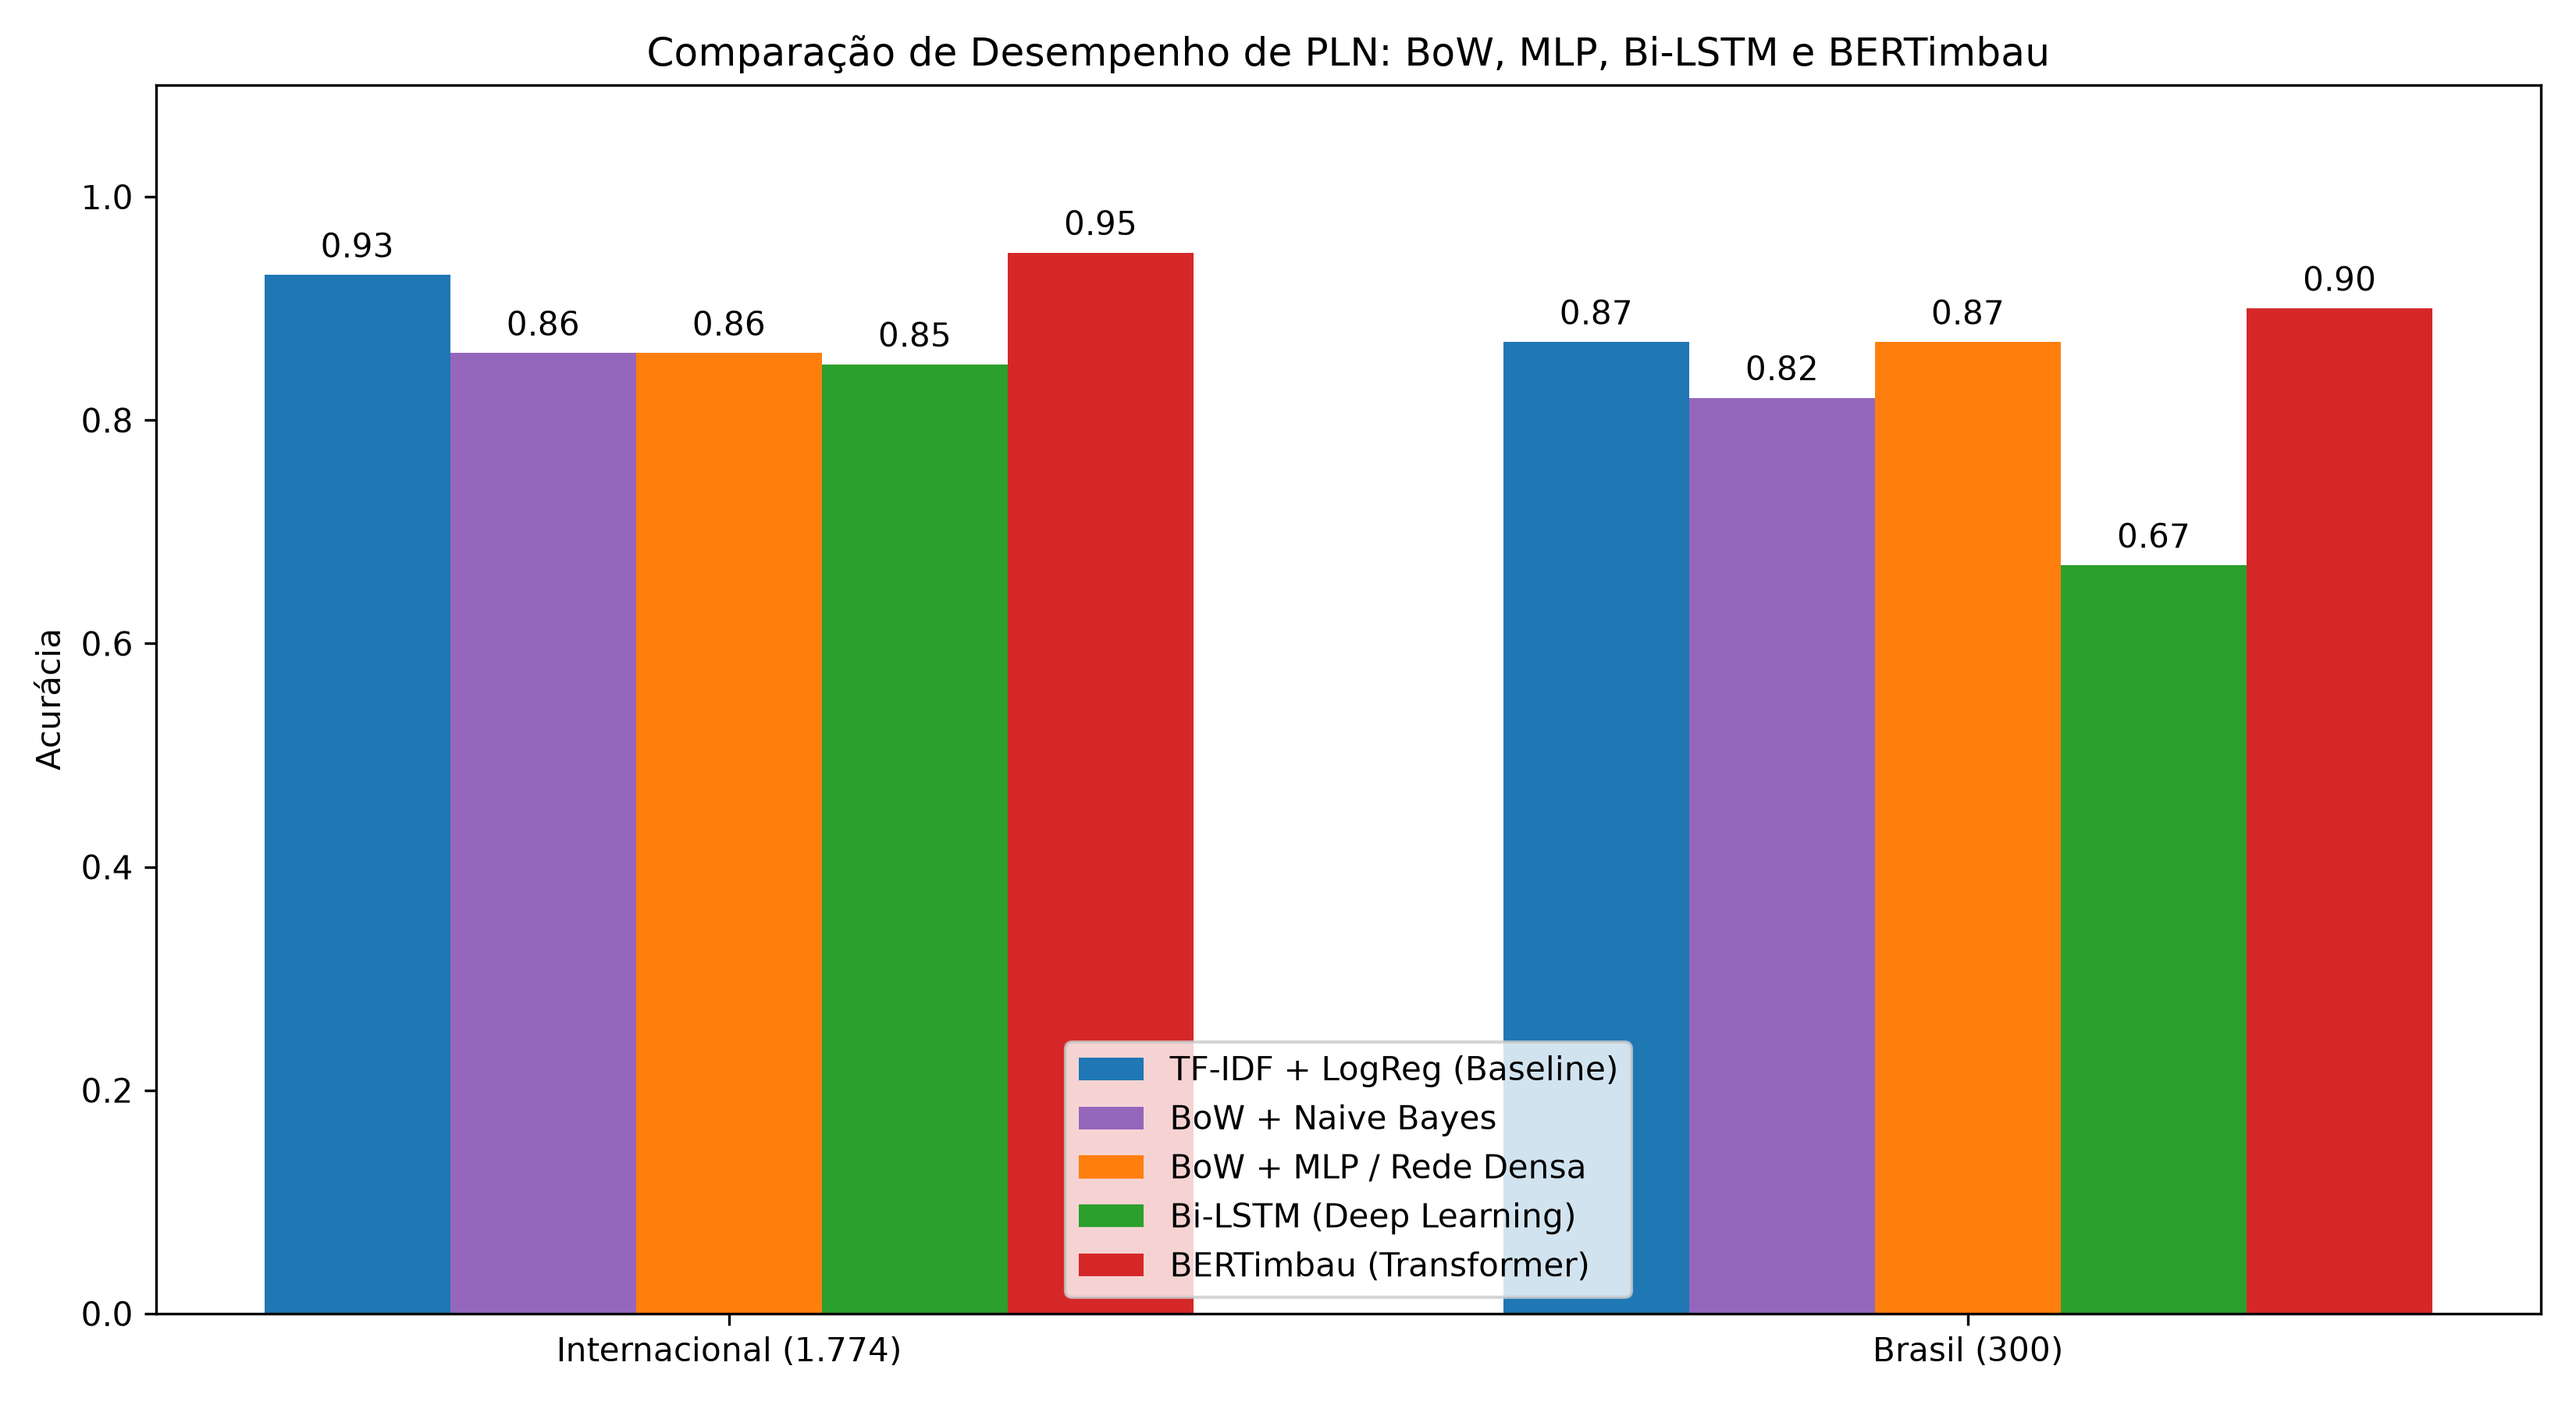
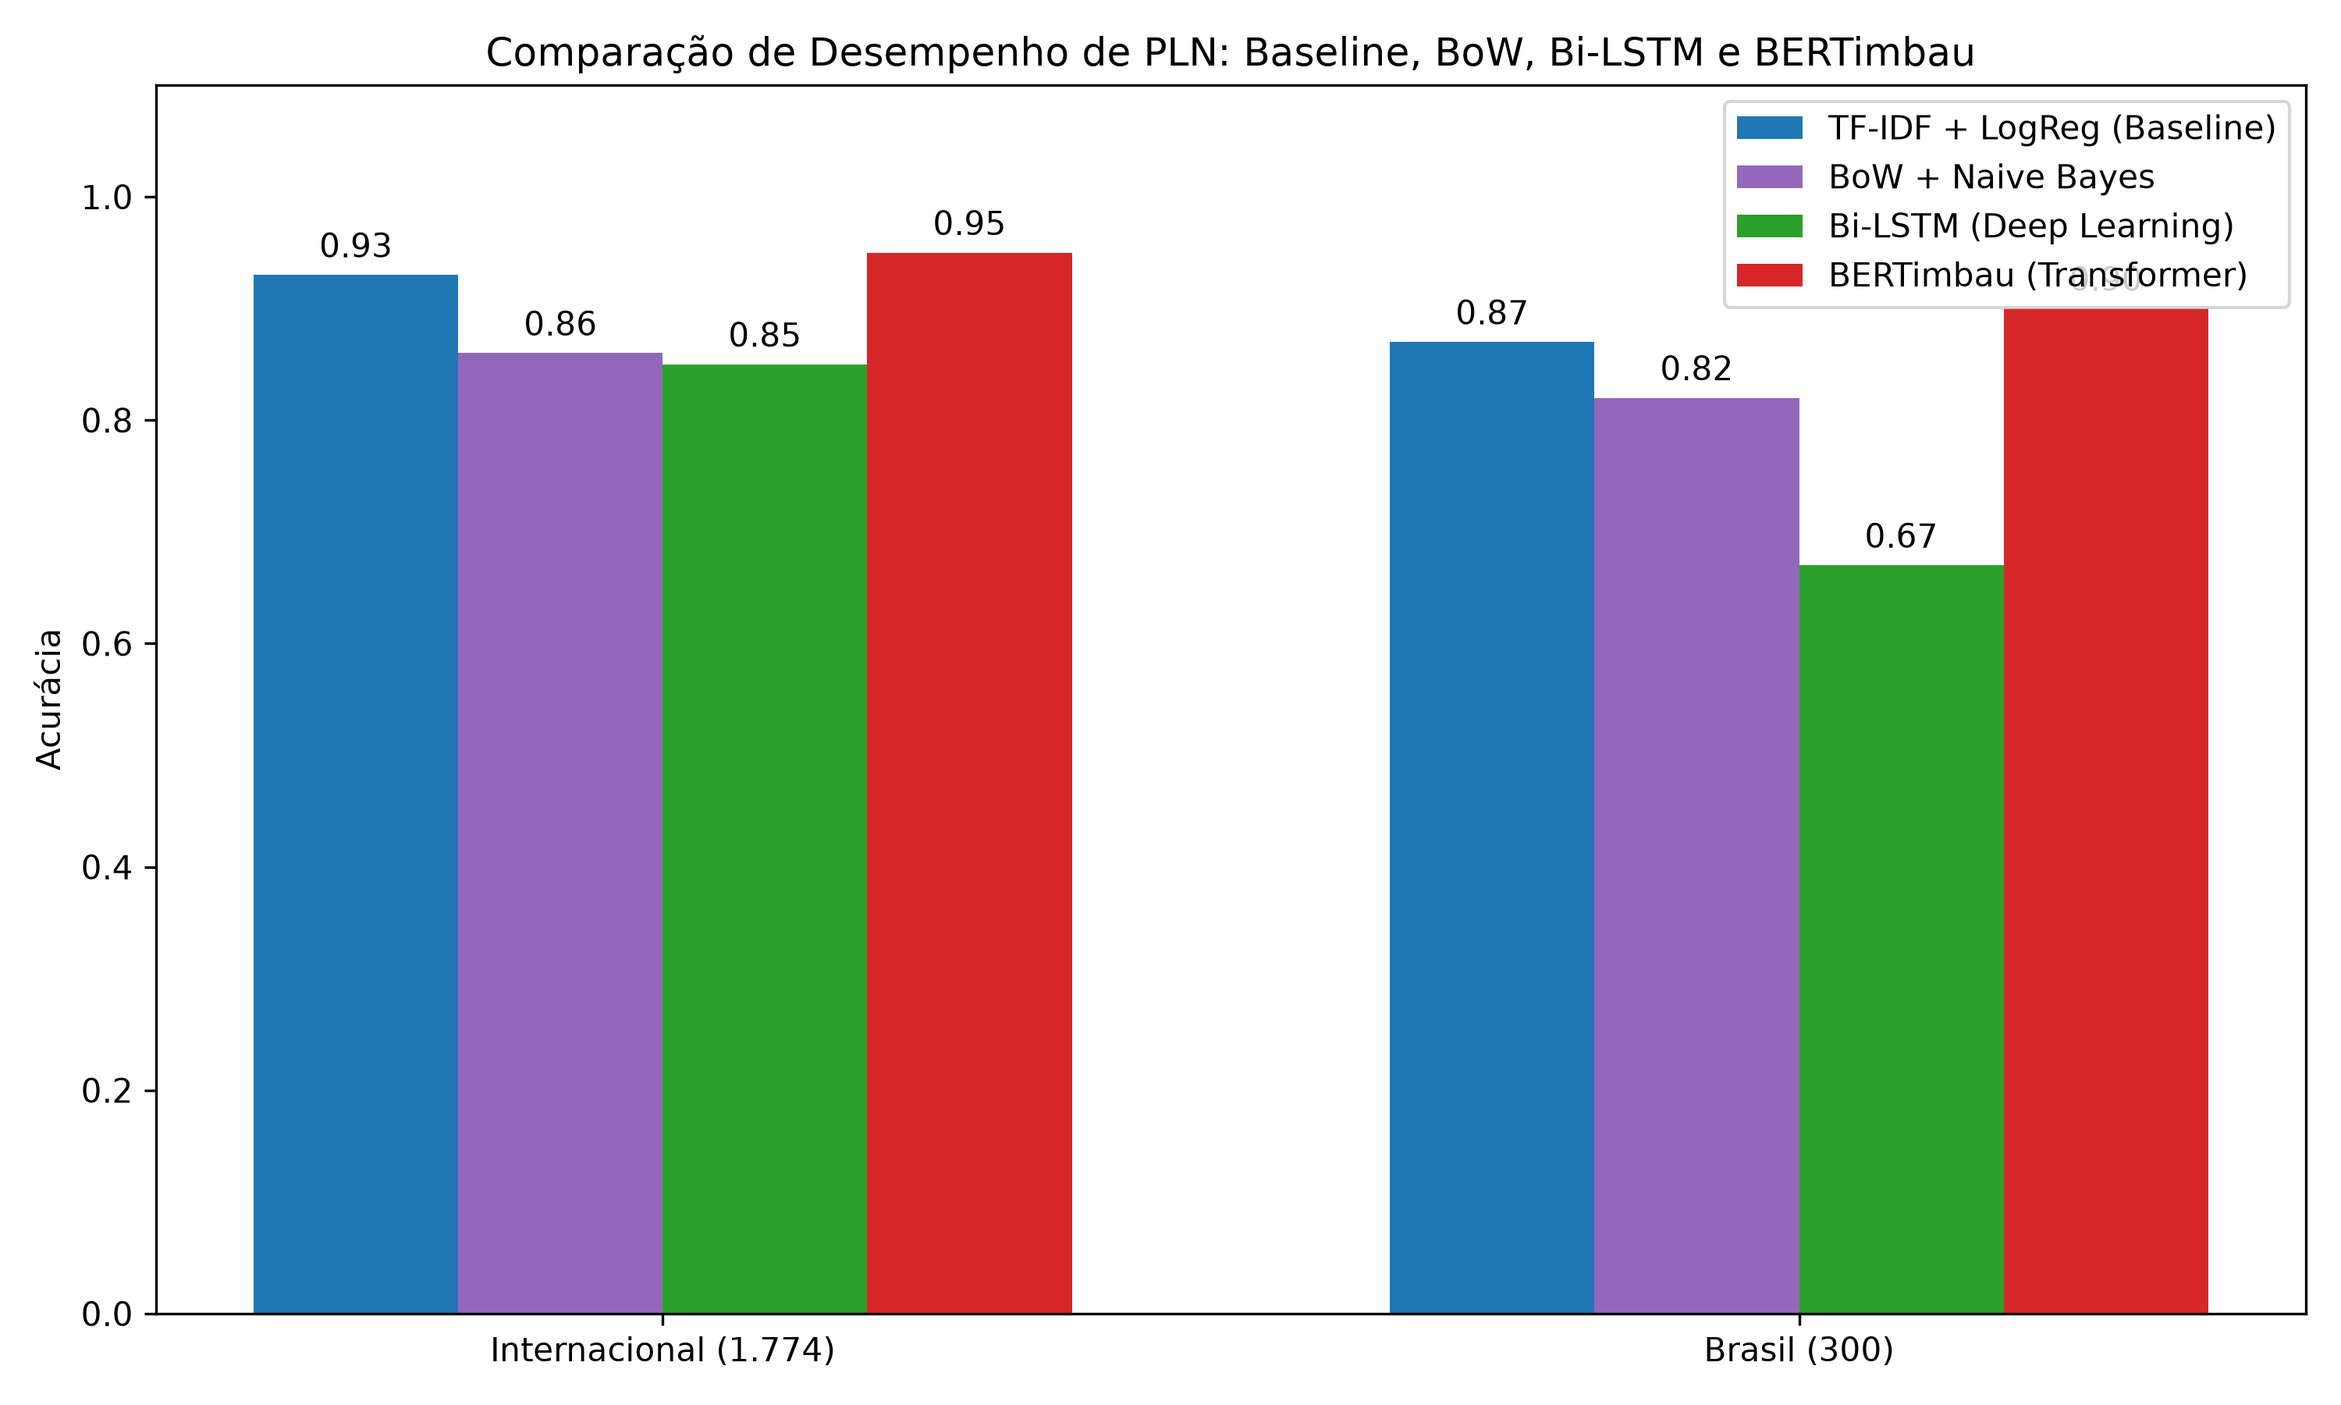
refactor: remove mlp_model, restaura baseline.py e ajusta comparativo para os 4 modelos (Baseline, BoW, Bi-LSTM, BERTimbau)

diff --git a/src/baseline.py b/src/baseline.py
@@ -1,0 +1,83 @@
+import os
+import pandas as pd
+from preprocess import processar_dataset
+from sklearn.feature_extraction.text import TfidfVectorizer
+from sklearn.linear_model import LogisticRegression
+from sklearn.metrics import classification_report, confusion_matrix
+from sklearn.model_selection import train_test_split
+
+
+def treinar_e_avaliar_baseline(caminho_csv, nome_base='Dataset'):
+    print(f'\nTreinando Baseline (TF-IDF + LogReg) - {nome_base}')
+
+    if not os.path.exists(caminho_csv):
+        print(f'Arquivo não encontrado: {caminho_csv}')
+        return
+
+    df = pd.read_csv(caminho_csv)
+
+    coluna_texto = 'texto_limpo' if 'texto_limpo' in df.columns else 'texto'
+
+    coluna_label = None
+    for col in ['label', 'rotulo', 'vies', 'categoria', 'target', 'class']:
+        if col in df.columns:
+            coluna_label = col
+            break
+
+    if not coluna_label:
+        print(f'Erro: Nenhuma coluna de rótulo encontrada. Colunas no CSV: {list(df.columns)}')
+        return
+
+    mapa_conversao = {
+        'esquerda': 0,
+        'left': 0,
+        '0': 0,
+        0: 0,
+        'direita': 1,
+        'right': 1,
+        '1': 1,
+        1: 1,
+    }
+
+    df['label_num'] = df[coluna_label].astype(str).str.lower().str.strip().map(mapa_conversao)
+    df = df.dropna(subset=[coluna_texto, 'label_num'])
+
+    X = df[coluna_texto]
+    y = df['label_num'].astype(int)
+
+    X_train, X_test, y_train, y_test = train_test_split(
+        X, y, test_size=0.2, random_state=42, stratify=y
+    )
+
+    vectorizer = TfidfVectorizer(max_features=5000, ngram_range=(1, 2))
+    X_train_tfidf = vectorizer.fit_transform(X_train)
+    X_test_tfidf = vectorizer.transform(X_test)
+
+    model = LogisticRegression(max_iter=1000, random_state=42)
+    model.fit(X_train_tfidf, y_train)
+
+    y_pred = model.predict(X_test_tfidf)
+
+    print('\n--- Relatório de Classificação ---')
+    print(classification_report(y_test, y_pred, target_names=['Esquerda (0)', 'Direita (1)']))
+
+    print('--- Matriz de Confusão ---')
+    cm = confusion_matrix(y_test, y_pred)
+    print(f'TN (Esquerda acertos): {cm[0][0]} | FP (Esquerda como Direita): {cm[0][1]}')
+    print(f'FN (Direita como Esquerda): {cm[1][0]} | TP (Direita acertos): {cm[1][1]}\n')
+
+
+if __name__ == '__main__':
+    caminho_inter = 'data/dataset_internacional.csv'
+    caminho_inter_limpo = 'data/dataset_internacional_limpo.csv'
+
+    if os.path.exists(caminho_inter):
+        processar_dataset(caminho_inter, caminho_inter_limpo, idioma='english')
+        treinar_e_avaliar_baseline(caminho_inter_limpo, nome_base='Base Internacional (10k)')
+
+    caminho_br = 'data/dataset_brasil.csv'
+    caminho_br_limpo = 'data/dataset_brasil_limpo.csv'
+
+    if os.path.exists(caminho_br):
+        processar_dataset(caminho_br, caminho_br_limpo, idioma='portuguese')
+        treinar_e_avaliar_baseline(caminho_br_limpo, nome_base='Base Brasileira (PT-BR)')

diff --git a/src/gerar_graficos.py b/src/gerar_graficos.py
@@ -7,22 +7,20 @@ os.makedirs('results', exist_ok=True)
 datasets = ['Internacional (1.774)', 'Brasil (300)']
 baseline_acc = [0.93, 0.87]
 bow_acc = [0.86, 0.82]
-mlp_acc = [0.86, 0.87]
 bilstm_acc = [0.85, 0.67]
 bertimbau_acc = [0.95, 0.90]
 
 x = np.arange(len(datasets))
-width = 0.15
+width = 0.18
 
-fig, ax = plt.subplots(figsize=(11, 6))
-rects1 = ax.bar(x - 2 * width, baseline_acc, width, label='TF-IDF + LogReg (Baseline)', color='#1f77b4')
-rects2 = ax.bar(x - 1 * width, bow_acc, width, label='BoW + Naive Bayes', color='#9467bd')
-rects3 = ax.bar(x, mlp_acc, width, label='BoW + MLP / Rede Densa', color='#ff7f0e')
-rects4 = ax.bar(x + 1 * width, bilstm_acc, width, label='Bi-LSTM (Deep Learning)', color='#2ca02c')
-rects5 = ax.bar(x + 2 * width, bertimbau_acc, width, label='BERTimbau (Transformer)', color='#d62728')
+fig, ax = plt.subplots(figsize=(10, 6))
+rects1 = ax.bar(x - 1.5 * width, baseline_acc, width, label='TF-IDF + LogReg (Baseline)', color='#1f77b4')
+rects2 = ax.bar(x - 0.5 * width, bow_acc, width, label='BoW + Naive Bayes', color='#9467bd')
+rects3 = ax.bar(x + 0.5 * width, bilstm_acc, width, label='Bi-LSTM (Deep Learning)', color='#2ca02c')
+rects4 = ax.bar(x + 1.5 * width, bertimbau_acc, width, label='BERTimbau (Transformer)', color='#d62728')
 
 ax.set_ylabel('Acurácia')
-ax.set_title('Comparação de Desempenho de PLN: BoW, MLP, Bi-LSTM e BERTimbau')
+ax.set_title('Comparação de Desempenho de PLN: Baseline, BoW, Bi-LSTM e BERTimbau')
 ax.set_xticks(x)
 ax.set_xticklabels(datasets)
 ax.set_ylim(0, 1.10)
@@ -32,7 +30,6 @@ ax.bar_label(rects1, padding=3, fmt='%.2f')
 ax.bar_label(rects2, padding=3, fmt='%.2f')
 ax.bar_label(rects3, padding=3, fmt='%.2f')
 ax.bar_label(rects4, padding=3, fmt='%.2f')
-ax.bar_label(rects5, padding=3, fmt='%.2f')
 
 plt.tight_layout()
 plt.savefig('results/comparacao_modelos.png', dpi=300)
